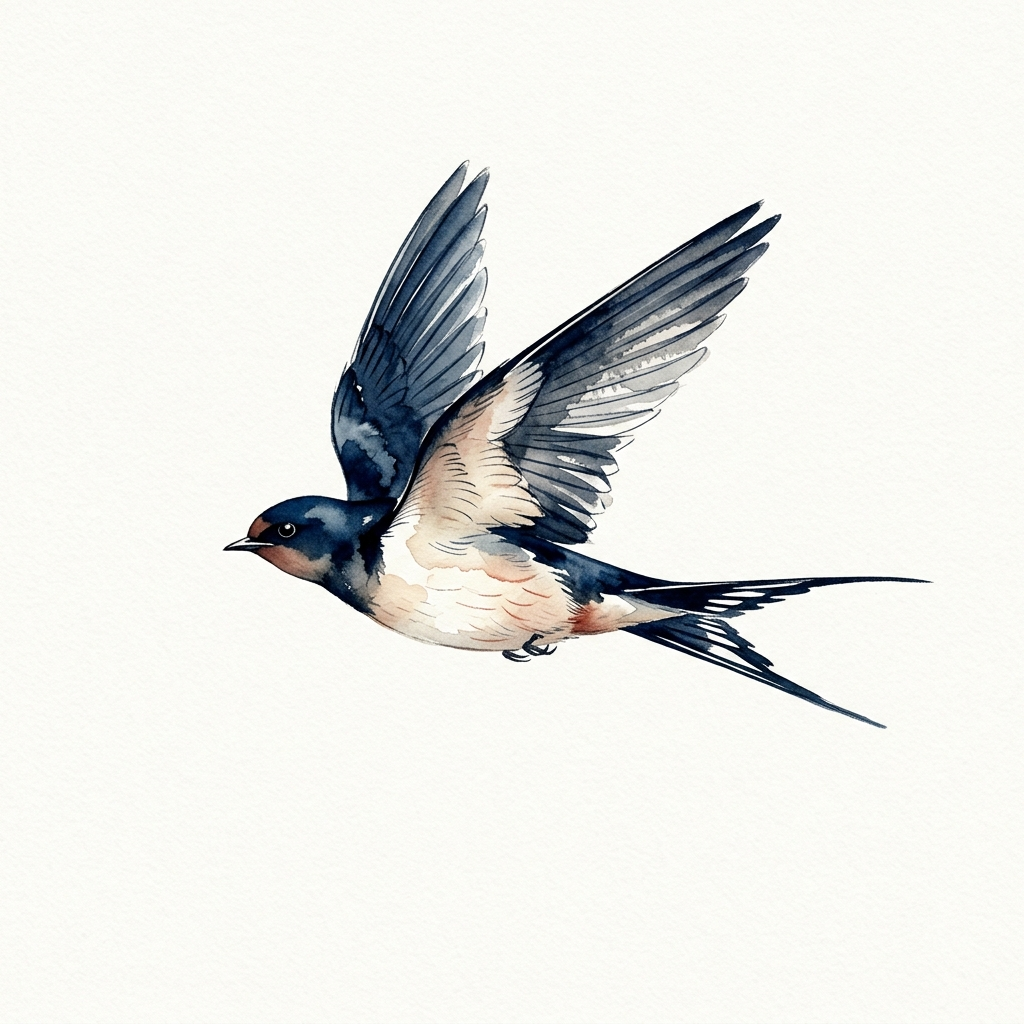
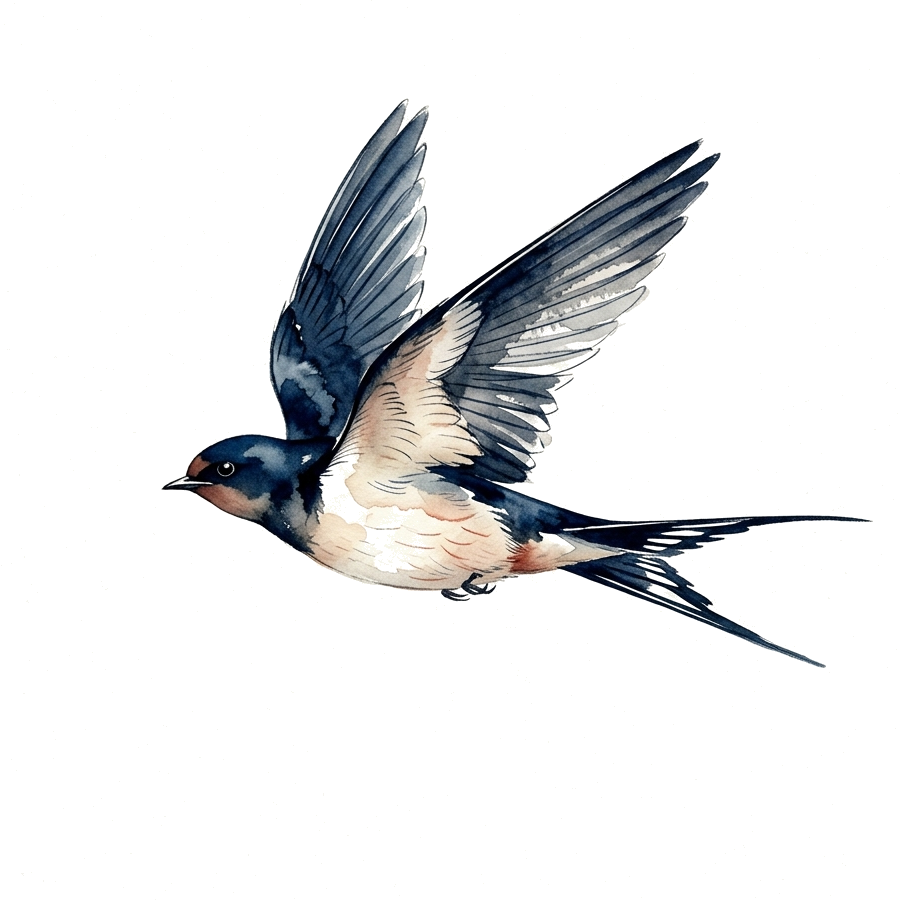
auto-crop and remove backgrounds to make sakura and swallow transparent PNGs

Changed region(s): [[0.1865, 0.0932, 0.9634, 0.7458]]

diff --git a/src/app/page.tsx b/src/app/page.tsx
@@ -21,24 +21,24 @@ export default function Home() {
       {/* Hero Section Container */}
       <section className="relative w-full min-h-screen flex flex-col items-center justify-start pt-32 px-6 text-center z-10">
         
-        {/* Sakura Branch - positioned in the upper-left, extending horizontally with mix-blend-mode to multiply onto watercolor background */}
-        <div className="absolute left-0 top-0 w-[80%] max-w-[340px] pointer-events-none z-20 mix-blend-multiply select-none">
+        {/* Sakura Branch - positioned in the upper-left, extending horizontally, transparent background */}
+        <div className="absolute left-0 top-0 w-[80%] max-w-[340px] pointer-events-none z-20 select-none">
           <Image
             src="/images/sakura-top.png"
             alt="Sakura branch"
-            width={1024}
-            height={768}
+            width={839}
+            height={839}
             className="h-auto w-full object-contain origin-top-left"
             priority
           />
         </div>
 
-        {/* Flying Swallow Bird - floating on the right side of the screen facing the sakura branch */}
+        {/* Flying Swallow Bird - floating on the right side, transparent background */}
         <motion.div
           initial={{ opacity: 0, x: 50, y: -20 }}
           animate={{ opacity: 1, x: 0, y: 0 }}
           transition={{ duration: 1.2, ease: "easeOut", delay: 0.5 }}
-          className="absolute right-8 top-32 w-[90px] pointer-events-none z-20 mix-blend-multiply select-none"
+          className="absolute right-8 top-32 w-[90px] pointer-events-none z-20 select-none"
         >
           <motion.div
             animate={{ 
@@ -55,8 +55,8 @@ export default function Home() {
             <Image
               src="/images/swallow.png"
               alt="Flying swallow bird"
-              width={500}
-              height={500}
+              width={901}
+              height={901}
               className="h-auto w-full object-contain"
               priority
             />
@@ -65,7 +65,7 @@ export default function Home() {
 
         {/* Content Wrapper */}
         <div className="relative mt-auto mb-24 z-30 flex flex-col items-center">
-          {/* We will build the names and main titles in this block next */}
+          {/* Content will go here */}
         </div>
 
       </section>
